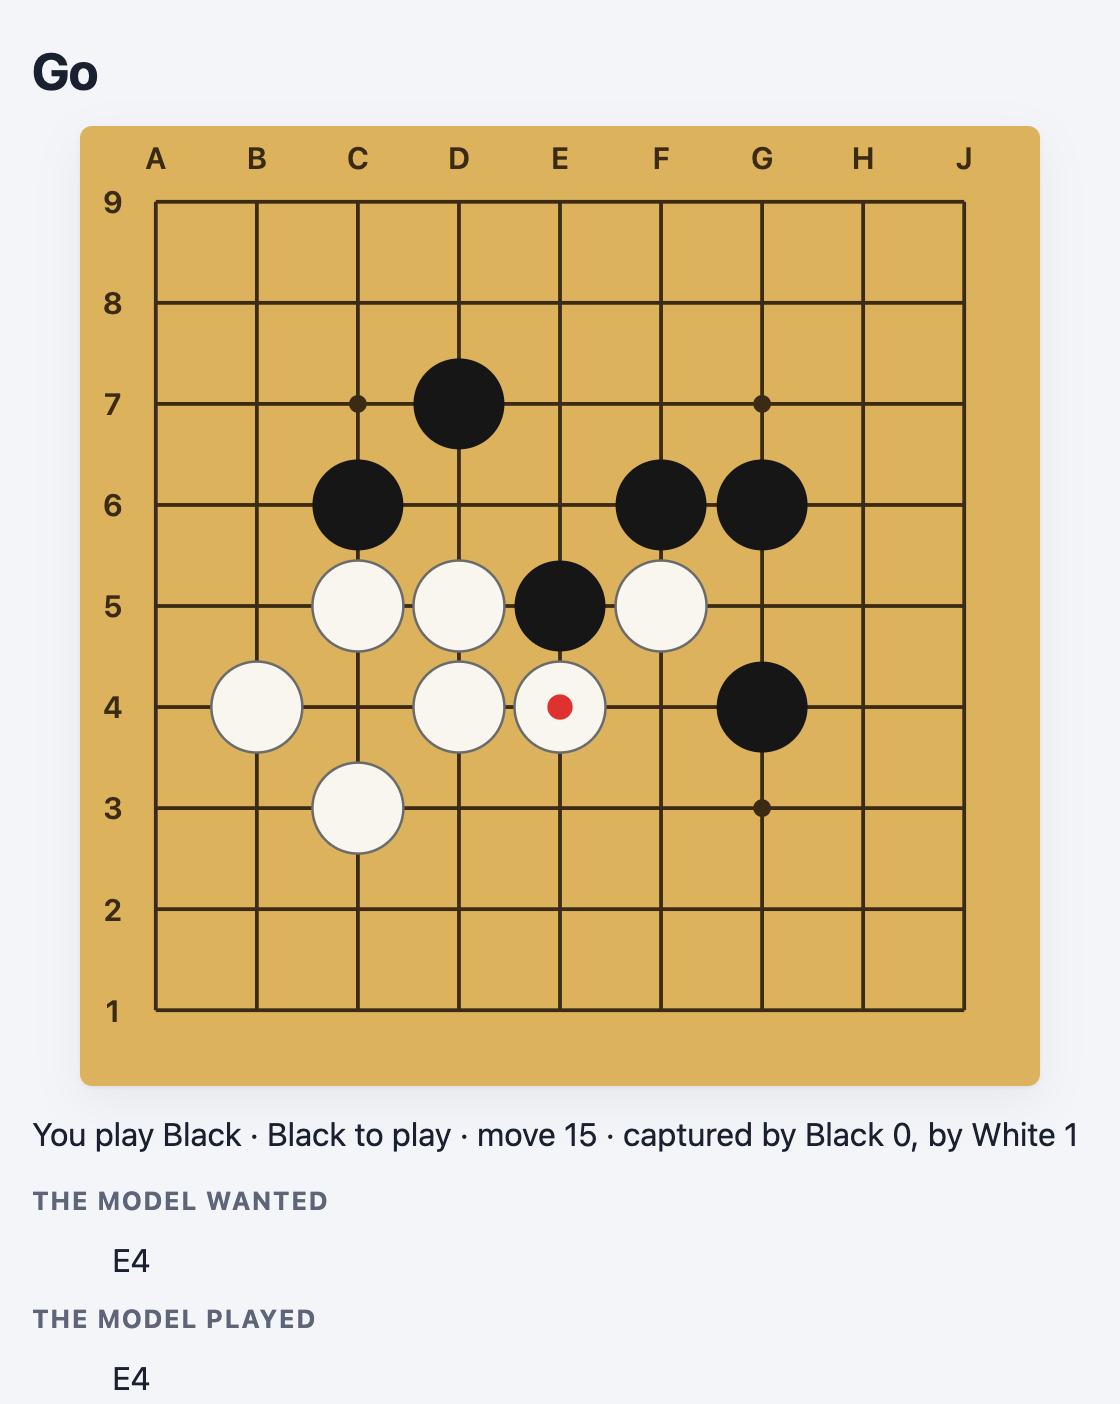
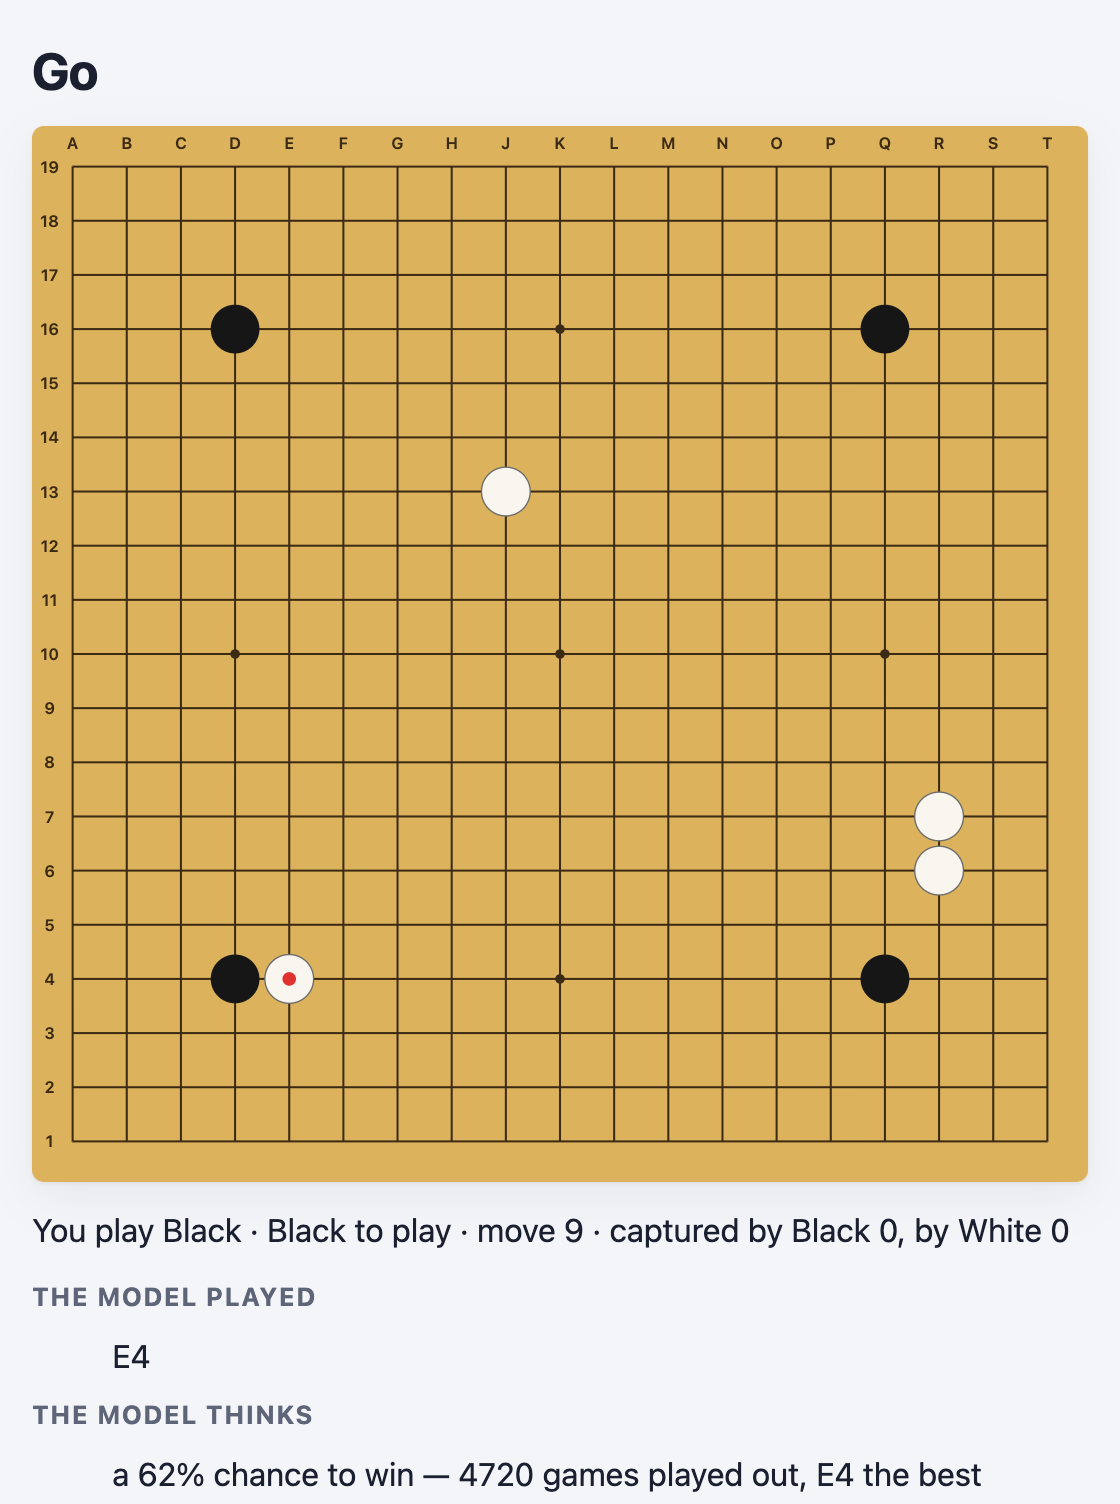
Go: boards to 19 x 19 and one model that reads ahead

Changed region(s): [[0.0312, 0.0306, 0.9688, 1.0], [0.4062, 0.9494, 0.875, 1.0]]

diff --git a/index.html b/index.html
@@ -228,27 +228,27 @@
   <h3 style="margin-top:28px">How it is built</h3>
   <p class="sub">Scala 3 compiled to JavaScript by Scala.js, on <a href="https://github.com/okay-effects/okay-ui">okay-ui</a> and <a href="https://github.com/okay-effects/okay-faces">okay-faces</a>. The page is one line: <code>Page.mount(OnFaces.program(steps(Puzzles.random()(Sudoku.main[App]))), skin)</code>.</p>
 
-  <h3 class="app" id="okay-go-game" style="margin-top:48px">Go: with a friend far away, with watchers, or against a model kept to legal moves</h3>
-  <p class="sub">The ancient board game on a 9 × 9 board. Put stones in turn, surround the other side's groups to capture them, and fence in more of the board. Play a friend at one screen, or play a small model: it can only ever press a legal point, and the page shows when what it wanted was not allowed.</p>
+  <h3 class="app" id="okay-go-game" style="margin-top:48px">Go: 9 × 9 to 19 × 19, with a friend far away, with watchers, or against a model that reads ahead</h3>
+  <p class="sub">The ancient board game, on a 9 × 9, 13 × 13 or the full 19 × 19 board. Put stones in turn, surround the other side's groups to capture them, and fence in more of the board. Play a friend at one screen, or play a small model: it can only ever press a legal point, and the page shows when what it wanted was not allowed.</p>
   <p><a class="btn" href="https://okay-effects.github.io/okay-go-game/" target="_blank" rel="noopener">Play Go</a>
     <a class="btn" href="https://github.com/okay-effects/okay-go-game" target="_blank" rel="noopener" style="margin-left:8px">Source</a></p>
   <div class="cp">
-    <a href="https://okay-effects.github.io/okay-go-game/" target="_blank" rel="noopener"><img src="okay-go-game.png" alt="A game of Go against the model at move 15: the model wanted D5, not allowed because the point is taken, and played D6" loading="lazy"></a>
+    <a href="https://okay-effects.github.io/okay-go-game/" target="_blank" rel="noopener"><img src="okay-go-game.png" alt="A game of Go on the full 19 × 19 board against the model: it played H17, a 60% chance to win after 4512 games played out" loading="lazy"></a>
     <div>
       <h3>What it does</h3>
       <ul class="tight">
-        <li>Two players at one board, or you against the model, as Black or as White: a Beginner, or a Stronger one that plays out thousands of games before each move.</li>
+        <li>Two players at one board, or you against the model, as Black or as White, on 9 × 9, 13 × 13 or 19 × 19.</li>
         <li>Play a friend far away: send them a link, and anyone can watch the game by another link.</li>
         <li>The full rules: captures, no suicide, no repeated position (ko), passes, area scoring with komi 6.5.</li>
         <li>Only legal points can be pressed: a taken point, a suicide or a ko simply has no button.</li>
-        <li>After each of the model's moves: what it wanted, why that was not allowed, and what it played.</li>
+        <li>After each of the model's moves: what it played and its chance to win; while it thinks, the page stays alive.</li>
         <li>At the end, each side's stones and fenced points, and the winner.</li>
       </ul>
     </div>
   </div>
   <div class="grid3" style="margin-top:24px">
-    <div class="card"><h3>A mask, not a promise</h3><p>The model values every point, legal or not. It is not asked to behave: its choice goes through the same legal-move mask as yours, so an illegal move cannot happen.</p></div>
-    <div class="card"><h3>Two strengths, in your browser</h3><p>The Beginner is twelve numbers: captures, atari, saving a group, the good lines early on. The Stronger one searches: before each move it plays out up to 4000 games to the end and picks the move that won most, and tells you its chance to win. Both run in your browser, with no server.</p></div>
+    <div class="card"><h3>Every board</h3><p>A quick 9 × 9, 13 × 13, or the full 19 × 19 — at one screen, against the model, or online with a friend. Only legal points can be pressed: a taken point, a suicide or a ko simply has no button.</p></div>
+    <div class="card"><h3>A model that reads ahead</h3><p>Before each move it plays out thousands of games to the end (about 11 000 on 9 × 9) and picks the move that won most: Monte-Carlo tree search with RAVE, playouts that capture and escape, and what is known of a move before any game. It runs in your browser, with no server.</p></div>
     <div class="card"><h3>The model as an effect</h3><p>The game asks <code>Model</code> for the values of the points. A stronger engine would be another handler: the game would not change.</p></div>
   </div>
   <h3 style="margin-top:28px">How it is built</h3>
